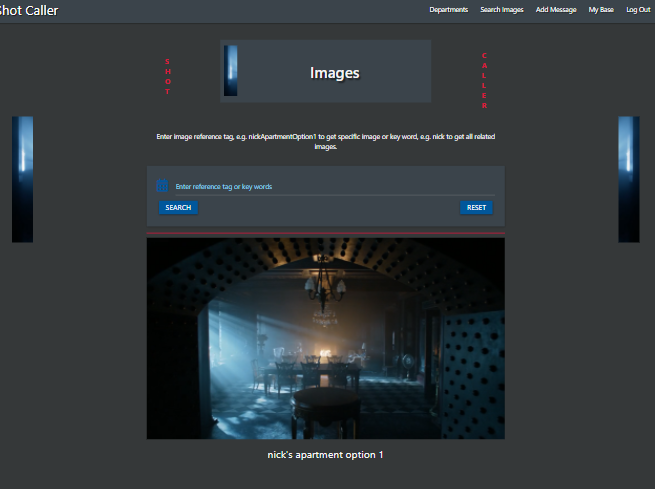
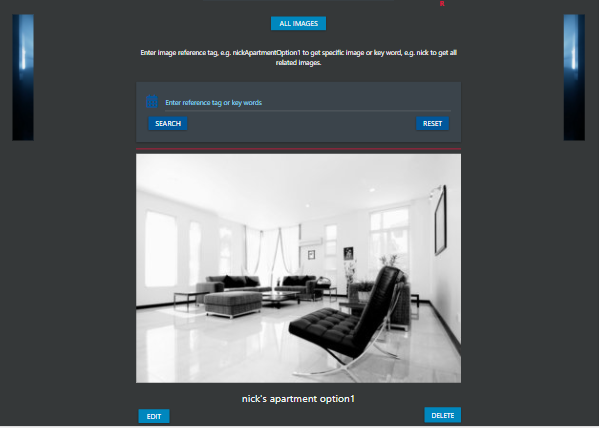
Added tp pro latest updates page, changed stock image on image page, Readme

diff --git a/templates/pro.html b/templates/pro.html
@@ -33,6 +33,17 @@
    <!--main-->
    <div class="col s10">
 
+        <!---check for urgent production messages button-->
+      <div class="row">
+         <div class="col s12 margintop-10 center-align find">
+             <h5 class="center-align antiquewhite">Get all department's latest updates</h5>
+            <a class="pad-20 btn-small offwhite blueBack-sea text-shadow" href="{{ url_for('get_depts') }}">
+            <strong> Departments</strong> </a>
+         </div>
+      </div>
+
+      <h5 class="center-align antiquewhite">Today</h5>
+
         <div class="row">
    <div class="col s12 m10 offset-m1">
       <!--messages-->

diff --git a/templates/user_home.html b/templates/user_home.html
@@ -66,7 +66,8 @@
 
       <!---check for urgent production messages button-->
       <div class="row">
-         <div class="col s12 margintop-10 m6 offset-m3 center-align find">
+         <div class="col s12 margintop-10 center-align find">
+             <h5 class="center-align antiquewhite">Get latest production updates</h5>
             <a class="pad-20 btn-small offwhite blueBack-sea text-shadow" href="{{ url_for('get_pro') }}">
             <strong> Latest Updates</strong> </a>
          </div>

diff --git a/app.py b/app.py
@@ -206,7 +206,7 @@ def get_image():
             images = list(mongo.db.images.find({"$text": {"$search": image}}))
             return render_template("images.html", images=images)
 
-        images = list(mongo.db.images.find({"image_name": "cat"}))
+        images = list(mongo.db.images.find({"image_name": "windowlight"}))
         return render_template("images.html", images=images)
 
     else:

diff --git a/README.md b/README.md
@@ -328,11 +328,13 @@ The MongoDB Shot Caller database contains the following collections.
 <img src="documentation/readme-images/m-users.png" width="90%">
 </h2>
 
+
 <p align="center"><strong>depts</strong>- for each department's details</p>
 
 <h2 align="center">
 <img src="documentation/readme-images/m-departments.png" width="90%">
 </h2>
+
 
 <p align="center"><strong>9 department collections, e.g. camera</strong> - each containing that department's messages</p>
 
@@ -340,17 +342,20 @@ The MongoDB Shot Caller database contains the following collections.
 <img src="documentation/readme-images/m-dep1.png" width="90%">
 </h2>
 
+
 <p align="center"><strong>images</strong> - for image details</p>
 
 <h2 align="center">
 <img src="documentation/readme-images/m-images.png" width="90%">
 </h2>
 
+
 <p align="center"><strong>shotlist</strong> - for the shotlist's url</p>
 
 <h2 align="center">
 <img src="documentation/readme-images/m-shotlist.png" width="90%">
 </h2>
+
 
 <p align="center"><strong>script</strong> - for the script's url</p>
 
@@ -422,13 +427,13 @@ W3C Markup Validator, W3C CSS Validator. PEP8 and JSHint were used to validate e
 
 - [W3C Markup Validator](https://validator.w3.org/) - [Results](https://github.com/johnston9/MS3-Shot-Caller)
   - W3C "Direct Input" option was used on each html page. As Jinja was used throughout the site
-    errors displayed where it was used on each page but no other error displayed.
-    When I validated by URL no errors were shown as seen in the screenshot "W3C entire site by URL"
+    errors displayed where it was used on each page but no other error displayed, documentation -folder "w3c-direct-input".
+    When I validated by URL no errors were shown as seen in documentation "w3c-by-url".
 
 - [W3C CSS Validator](https://jigsaw.w3.org/css-validator/#validate_by_input) - [Results](https://github.com/johnston9/MS3-Shot-Caller)
   - W3C showed no errors and only one warning for the hr rule's background colour
     being the same as it's colour, which was intentional.
-
+  
 - [JSHint](https://jshint.com/) - [Results](https://github.com/johnston9/ms2-apis)
   - JSHint was used with "New JavaScript features (ES6)" and "jQuery" checked in the configuration menu.
     All files were clear of errors and warnings.
@@ -439,7 +444,7 @@ W3C Markup Validator, W3C CSS Validator. PEP8 and JSHint were used to validate e
 
 [Back to Table of Content](#table-of-content)
 
-# Testing User Stories from User Experience (UX) Section
+# Testing User Stories from User Experience (UX) 
 
 ## First Time User Goals
 
@@ -566,6 +571,8 @@ W3C Markup Validator, W3C CSS Validator. PEP8 and JSHint were used to validate e
     2. Upon entering 
     3. Upon entering 
 
+### Further Testing
+
 
 
 - The app was tested on Google Chrome, Internet Explorer, and Safari browsers.
@@ -604,41 +611,43 @@ By forking we make a copy of the GitHub Repository.
 
 Click [Here](https://help.github.com/en/github/creating-cloning-and-archiving-repositories/cloning-a-repository#cloning-a-repository-to-github-desktop) to retrieve pictures for some of the buttons and more detailed explanations of the above process.
 
-# Deployment
-
-[Heroku](https://www.heroku.com/platform)
-   - Heroku was used to deploy the project.
-
-### Create the Flask app
+### Create the Flask app 
+  - (some steps will have been completed in making a clone, marked *
+     but are shown here for clarification)
 
 In the terminal use the following commands:
 
 #### pip3 install Flask
 
-#### touch app.py
+#### touch app.py*
 app.py is where the python logic to run the app is written.
-
-#### touch env.py
-In env.py set the app's environment variables and keys needed during development.
-These will later be set in Heroku.
-
-import os
-os.environ.setdefault("IP", "0.0.0.0")
-os.environ.setdefault("PORT", "5000")
-os.environ.setdefault("SECRET_KEY", "***************")
-os.environ.setdefault("MONGO_URI", "***********")
-os.environ.setdefault("MONGO_DBNAME", "shot_caller") 
-
-#### touch pycach.py 
 
 #### touch gitignore
 gitignore is used to store sensitive variables and keys that do not get sent to github.
 Type pycach.py and env.py in the gitignore file.
 
-#### pip3 freeze --local > requirements.txt 
+#### touch env.py
+As this file is not sent to Github it needs to be created.
+In env.py set the app's environment variables and keys needed during development.
+These will later be set in Heroku.
+
+
+         **env.py**
+
+    import os
+    os.environ.setdefault("IP", "0.0.0.0")
+    os.environ.setdefault("PORT", "5000")
+    os.environ.setdefault("SECRET_KEY", "***************")
+    os.environ.setdefault("MONGO_URI", "***********")
+    os.environ.setdefault("MONGO_DBNAME", "shot_caller") 
+
+#### touch pycach.py 
+As this file is not sent to Github it needs to be created.
+
+#### pip3 freeze --local > requirements.txt* 
 A requirements.txt containing all Flask dependencies is needed for Heroku to run the app.
 
-#### echo web: python app.py > Procfile
+#### echo web: python app.py > Procfile*
 This tells Heroku what language the app is using.
 
 #### pip3 install flask-pymongo
@@ -650,9 +659,10 @@ We also need to install 'dnsython' in order to use the Mongo SRV connection stri
 #### pip3 freeze --local > requirements.txt
 Heroku needs to know these are needed for the app.
 
-#### Push everything to Github
+# Deployment
 
-### Set up Heroku
+[Heroku](https://www.heroku.com/platform)
+   - Heroku was used to deploy the project.
 
 Register a Heroku account.
 Click 'Create a New App'.
@@ -687,11 +697,18 @@ Click "View" to launch the app.
 - The general structure of the app was inspired by Tim Nelson's Task Manager app
   which is part of the Code Institute's course.
 
-### Content
+## Content
 
 All content was written by the developer.
 
-### Media
+## Media
+
+The photos used in the image bank and used for messages Sthis site were obtained from;
+
+  1.  [FreeImages.com](https://www.freeimages.com/)
+
+  2.  [pexels.com](https://www.pexels.com)
+
 
 The nine images used for the departments in this site were all created by myself 
 using a small portion of different screenshots I took from the TV series "Arrow" 
@@ -701,11 +718,10 @@ These are only being used for the MS3 project and will be replaced if the app is
 to be made in any way public.
 
 I researched the topic of copyright when it comes to the use of screenshots of tv shows
-used for non-profit student purposes and although it is somewhat of a grey area the
-general consensus is that it come under the "Fair Use Doctrine". Also in terms
+used for non-profit purposes and concluded that the use of fragments of these images 
+in this manner in the app come under the "Fair Use Doctrine". Also in terms
 of the 4-factor balancing test that it is accessed under the usage in this project is fair.
-
-See documentation for more info in copyright.docx.
+I also cleared it with the college staff.
 
 
 ### Acknowledgements
